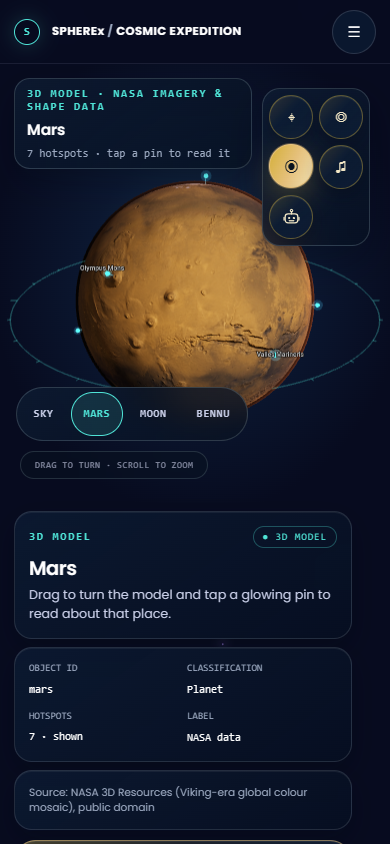
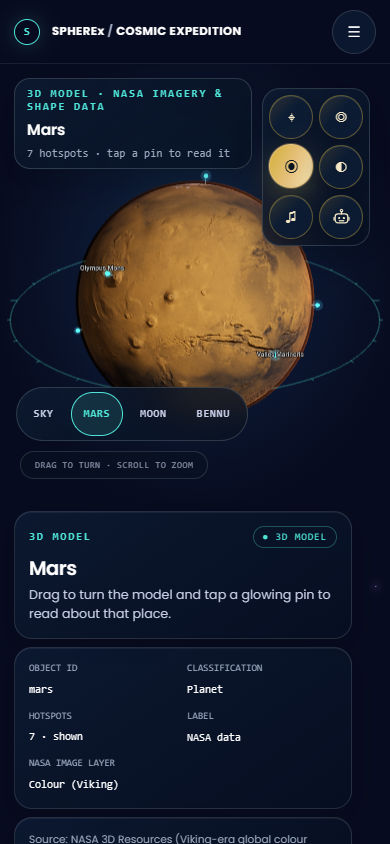
feat(explorer): NASA layers, surface sites and guide context in 3D model mode
In the Sky Explorer's 3D model mode only (Sky mode is unchanged):
- one toolbar toggle switches the body's NASA image layers (Mars: Viking
  colour / MOLA elevation); the HUD shows the layer, its scale and credit
- the second HUD action becomes 'Walk on <site>' and opens the walkable
  surface site; a pin with its own site retargets it
- Ask the Guide opens with the body or the selected pin as context

smoke-observation-3d.mjs: 74 -> 129 checks, new elevation screenshots.

diff --git a/arvr/src/frontend/components/SkyExplorerScreen.tsx b/arvr/src/frontend/components/SkyExplorerScreen.tsx
@@ -9,10 +9,12 @@ import { cacheObservations, useXRApp } from '../../xr/store'
 import { BotIcon } from '../guide/BotIcon'
 import { SkyScene3D } from './SkyScene3D'
 import { ModelViewer3D, MODEL_BODIES, isModelBody, type ModelBodyId } from './ModelViewer3D'
-import { useBodyContent } from '../../xr/content'
+import { useBodyContent, useSitesForBody } from '../../xr/content'
 import { useDeviceCaps } from '../../xr/device'
 import { KIND_LABEL } from '../../xr/InfoCard'
 import { localHotspot } from '../../xr/i18n'
+import { askGuide } from '../../xr/events'
+import { layersFor } from '../../xr/layers'
 
 type MarkerId = 'rcw-36' | 'candidate-02' | 'demo-tile-01'
 
@@ -22,6 +24,12 @@ type ViewportModel = 'sky' | ModelBodyId
 const DEFAULT_MODEL: ViewportModel = 'sky'
 const MODEL_LABELS: Record<ViewportModel, string> = { sky: 'Sky', mars: 'Mars', moon: 'Moon', bennu: 'Bennu' }
 const BODY_TYPE_LABEL: Record<string, string> = { planet: 'Planet', moon: 'Moon', asteroid: 'Near-Earth asteroid', star: 'Star' }
+/** Walkable site offered from a 3D body when no pin with its own site is selected (content/sites/<id>.json). */
+const DEFAULT_SITE: Record<ModelBodyId, { id: string; name: string }> = {
+  mars: { id: 'jezero', name: 'Jezero Crater' },
+  moon: { id: 'apollo11', name: 'Apollo 11 site' },
+  bennu: { id: 'bennu-nightingale', name: 'Bennu surface' },
+}
 
 function parseModel(value: string | null): ViewportModel {
   if (value === 'sky') return 'sky'
@@ -81,6 +89,18 @@ export function SkyExplorerScreen() {
   const rawHotspot = bodyContent?.hotspots.find((h) => h.id === hotspotId) ?? null
   const hotspot = localHotspot(rawHotspot, lang)
   const xrIntent: 'vr' | 'ar' | null = caps.vr ? 'vr' : caps.ar ? 'ar' : null
+  // NASA image layers of the body (e.g. Mars colour / MOLA elevation), shared with the XR scene
+  const bodyLayers = layersFor(bodyModel)
+  const activeLayerId = useXRApp((s) => (bodyModel ? s.layer[bodyModel] : undefined))
+  const bodyLayer = bodyLayers.find((l) => l.id === activeLayerId) ?? bodyLayers[0] ?? null
+  const dataLayerOn = !!bodyLayer && bodyLayer.id !== bodyLayers[0]?.id
+  const bodySites = useSitesForBody(bodyModel)
+  // walkable surface site: the selected pin's own site, else the body's featured one
+  const surfaceSite = !bodyModel
+    ? null
+    : rawHotspot?.site
+      ? { id: rawHotspot.site, name: bodySites.find((site) => site.id === rawHotspot.site)?.name ?? hotspot?.title ?? rawHotspot.title }
+      : { ...DEFAULT_SITE[bodyModel], name: bodySites.find((site) => site.id === DEFAULT_SITE[bodyModel].id)?.name ?? DEFAULT_SITE[bodyModel].name }
 
   const illustrative = selectedId === 'rcw-36' ? null : ILLUSTRATIVE_TARGETS[selectedId]
   const chosenObservation = observations.find((item) => item.observation_id === searchParams.get('obs')) ?? observations[0]
@@ -185,6 +205,21 @@ export function SkyExplorerScreen() {
     notify(next ? 'Hotspots shown.' : 'Hotspots hidden.')
   }
 
+  const cycleLayer = () => {
+    if (!bodyModel || bodyLayers.length < 2) return
+    const index = bodyLayers.findIndex((l) => l.id === bodyLayer?.id)
+    const next = bodyLayers[(index + 1) % bodyLayers.length]
+    useXRApp.getState().setLayer(bodyModel, next.id)
+    notify(`NASA image layer: ${next.label}.`)
+  }
+
+  /** Stand on the surface: the walkable NASA-elevation site in the 3D scene (works on screen, in VR and AR). */
+  const handleSurface = (event: React.MouseEvent<HTMLButtonElement>) => {
+    if (!bodyModel || !surfaceSite) return
+    const origin = originOf(event.currentTarget)
+    void runWormhole({ origin }, () => navigate(`/xr/surface/${surfaceSite.id}`))
+  }
+
   /** Opens the same body in the AR/VR scene with the mode picker up, so VR/AR starts from a real tap there. */
   const handleImmersive = (event: React.MouseEvent<HTMLButtonElement>) => {
     if (!bodyModel || !xrIntent) return
@@ -212,7 +247,24 @@ export function SkyExplorerScreen() {
   }
 
   const handleAskGuide = () => {
+    // 3D model mode: the guide gets the body (and the selected pin's own question) as context
+    if (bodyModel && !window.matchMedia('(max-width: 767px)').matches) {
+      if (rawHotspot) {
+        askGuide({ body: bodyModel, hotspotId: rawHotspot.id, guidePrompt: hotspot?.guidePrompt ?? rawHotspot.guidePrompt })
+        return
+      }
+      window.dispatchEvent(
+        new CustomEvent('cosmic:open-guide', {
+          detail: { objectId: bodyModel, objectName: bodyContent?.name || MODEL_LABELS[bodyModel] },
+        }),
+      )
+      return
+    }
     if (window.matchMedia('(max-width: 767px)').matches) {
+      if (bodyModel) {
+        navigate(`/guide/${bodyModel}`)
+        return
+      }
       navigate(`/guide/${selectedId}`)
       return
     }
@@ -345,6 +397,17 @@ export function SkyExplorerScreen() {
                 ⦿
               </button>
             )}
+            {bodyModel && bodyLayers.length > 1 && (
+              <button
+                className={`fe-icon-btn fe-layer-toggle ${dataLayerOn ? 'selected' : ''}`}
+                onClick={cycleLayer}
+                aria-pressed={dataLayerOn}
+                aria-label={`NASA image layer: ${bodyLayer?.label ?? ''}. Switch layer`}
+                title={`NASA image layer: ${bodyLayer?.label ?? ''}`}
+              >
+                ◐
+              </button>
+            )}
             {bodyModel && xrIntent && (
               <button
                 className="fe-icon-btn fe-xr-toggle"
@@ -438,6 +501,21 @@ export function SkyExplorerScreen() {
                     <span>Label</span>
                     <strong>{hotspot ? KIND_LABEL[hotspot.kind] : shapeIsIllustration ? 'Illustration' : 'NASA data'}</strong>
                   </div>
+                  {bodyLayers.length > 1 && bodyLayer && (
+                    <div className="fe-datum fe-datum-layer">
+                      <span>NASA image layer</span>
+                      <strong>{bodyLayer.label}</strong>
+                      {bodyLayer.legend && (
+                        <div className="fe-layer-legend" aria-label={`Colour scale from ${bodyLayer.legend.min} to ${bodyLayer.legend.max}`}>
+                          <i style={{ background: `linear-gradient(90deg, ${bodyLayer.legend.stops.join(', ')})` }} />
+                          <small>
+                            <span>{bodyLayer.legend.min}</span>
+                            <span>{bodyLayer.legend.max}</span>
+                          </small>
+                        </div>
+                      )}
+                    </div>
+                  )}
                 </div>
               </div>
 
@@ -447,6 +525,8 @@ export function SkyExplorerScreen() {
                   <a href={hotspot.source.url} target="_blank" rel="noopener noreferrer">
                     {hotspot.source.label}
                   </a>
+                ) : dataLayerOn && bodyLayer ? (
+                  bodyLayer.credit
                 ) : (
                   bodyCredit
                 )}
@@ -527,9 +607,15 @@ export function SkyExplorerScreen() {
             <button className="fe-btn-primary" onClick={handleAskGuide}>
               <span>Ask the Guide</span><span aria-hidden="true">↗</span>
             </button>
-            <button className="fe-btn-text" onClick={handleCompare}>
-              <span>Compare observations</span><span aria-hidden="true">→</span>
-            </button>
+            {bodyModel && surfaceSite ? (
+              <button className="fe-btn-text fe-surface-btn" onClick={handleSurface}>
+                <span>Walk on {surfaceSite.name}</span><span aria-hidden="true">↗</span>
+              </button>
+            ) : (
+              <button className="fe-btn-text" onClick={handleCompare}>
+                <span>Compare observations</span><span aria-hidden="true">→</span>
+              </button>
+            )}
             <button className="fe-btn-text fe-btn-gold" onClick={handleEnterXR}>
               <span>{bodyModel ? `Open ${MODEL_LABELS[bodyModel]} in 3D / XR` : 'Enter 3D Table (XR)'}</span><span aria-hidden="true">↗</span>
             </button>

diff --git a/arvr/src/frontend/styles/frontend.css b/arvr/src/frontend/styles/frontend.css
@@ -4016,3 +4016,9 @@
     transition: none;
   }
 }
+
+/* ---- Sky Explorer · 3D model mode: NASA image layer readout (appended, no older rule changed) ---- */
+.fe-datum-layer { grid-column: 1 / -1; }
+.fe-layer-legend { display: grid; gap: 3px; margin-top: 6px; }
+.fe-layer-legend i { display: block; height: 6px; border-radius: 3px; }
+.fe-layer-legend small { display: flex; justify-content: space-between; font-family: var(--mono); font-size: 0.6rem; color: var(--muted); }
